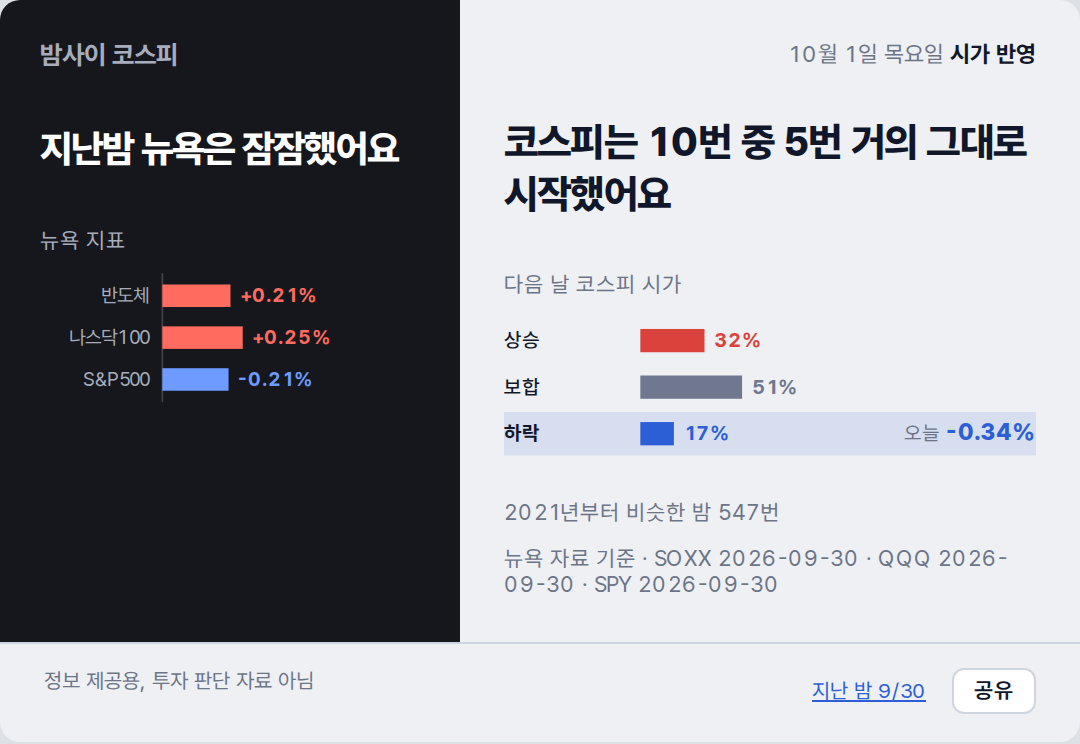
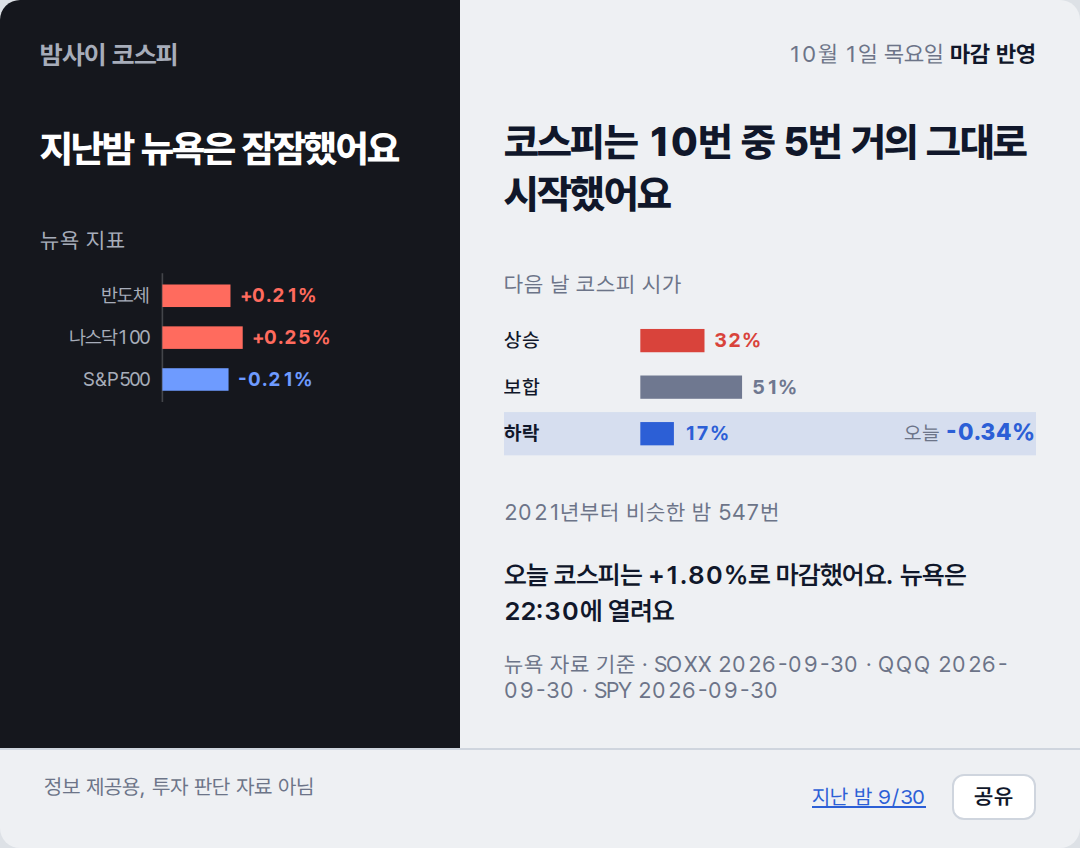
deploy: c0d07a214321b41f7cf333fef670b17ffe5b5852

diff --git a/2026-10-01/index.html b/2026-10-01/index.html
@@ -38,7 +38,7 @@ footer a{color:#2C5FD6}
 <rect x="76" y="61" width="41.1" height="14" fill="var(--down)"/>
 <text x="123.1" y="72" fill="var(--down)" font-weight="700">-0.21%</text>
 </svg></section>
-<section class="day"><p class="stamp">10월 1일 목요일 <b>시가 반영</b></p><p class="claim">코스피는 10번 중 5번 거의 그대로 시작했어요</p><p class="lab">다음 날 코스피 시가</p><svg viewBox="0 0 320 100" xmlns="http://www.w3.org/2000/svg" font-family="var(--sans)" font-size="12">
+<section class="day"><p class="stamp">10월 1일 목요일 <b>마감 반영</b></p><p class="claim">코스피는 10번 중 5번 거의 그대로 시작했어요</p><p class="lab">다음 날 코스피 시가</p><svg viewBox="0 0 320 100" xmlns="http://www.w3.org/2000/svg" font-family="var(--sans)" font-size="12">
 <text x="0" y="20" fill="var(--ink)" font-weight="500">상승</text>
 <rect x="82" y="9" width="38.6" height="14" fill="var(--up)"/>
 <text x="126.6" y="20" fill="var(--up)" font-weight="700">32%</text>
@@ -50,7 +50,7 @@ footer a{color:#2C5FD6}
 <rect x="82" y="65" width="20.2" height="14" fill="var(--down)"/>
 <text x="108.2" y="76" fill="var(--down)" font-weight="700">17%</text>
 <text x="320" y="76" text-anchor="end" fill="var(--ink)"><tspan fill="var(--muted)">오늘 </tspan><tspan font-weight="800" font-size="14" fill="var(--down)">-0.34%</tspan></text>
-</svg><p class="cap">2021년부터 비슷한 밤 547번</p><p class="cap">뉴욕 자료 기준 · SOXX 2026-09-30 · QQQ 2026-09-30 · SPY 2026-09-30</p></section>
+</svg><p class="cap">2021년부터 비슷한 밤 547번</p><p class="tail">오늘 코스피는 +1.80%로 마감했어요. 뉴욕은 22:30에 열려요</p><p class="cap">뉴욕 자료 기준 · SOXX 2026-09-30 · QQQ 2026-09-30 · SPY 2026-09-30</p></section>
 <footer><span>정보 제공용, 투자 판단 자료 아님</span><span style="white-space:nowrap"><a href="../2026-09-30/">지난 밤 9/30</a> <button class="share" type="button">공유</button></span></footer>
 <script>
 /* 공유: Web Share가 있으면 시스템 공유 시트, 없으면 링크 복사. 링크는 이 날짜 페이지(OG 카드 붙음) */

diff --git a/index.html b/index.html
@@ -38,7 +38,7 @@ footer a{color:#2C5FD6}
 <rect x="76" y="61" width="41.1" height="14" fill="var(--down)"/>
 <text x="123.1" y="72" fill="var(--down)" font-weight="700">-0.21%</text>
 </svg></section>
-<section class="day"><p class="stamp">10월 1일 목요일 <b>시가 반영</b></p><p class="claim">코스피는 10번 중 5번 거의 그대로 시작했어요</p><p class="lab">다음 날 코스피 시가</p><svg viewBox="0 0 320 100" xmlns="http://www.w3.org/2000/svg" font-family="var(--sans)" font-size="12">
+<section class="day"><p class="stamp">10월 1일 목요일 <b>마감 반영</b></p><p class="claim">코스피는 10번 중 5번 거의 그대로 시작했어요</p><p class="lab">다음 날 코스피 시가</p><svg viewBox="0 0 320 100" xmlns="http://www.w3.org/2000/svg" font-family="var(--sans)" font-size="12">
 <text x="0" y="20" fill="var(--ink)" font-weight="500">상승</text>
 <rect x="82" y="9" width="38.6" height="14" fill="var(--up)"/>
 <text x="126.6" y="20" fill="var(--up)" font-weight="700">32%</text>
@@ -50,7 +50,7 @@ footer a{color:#2C5FD6}
 <rect x="82" y="65" width="20.2" height="14" fill="var(--down)"/>
 <text x="108.2" y="76" fill="var(--down)" font-weight="700">17%</text>
 <text x="320" y="76" text-anchor="end" fill="var(--ink)"><tspan fill="var(--muted)">오늘 </tspan><tspan font-weight="800" font-size="14" fill="var(--down)">-0.34%</tspan></text>
-</svg><p class="cap">2021년부터 비슷한 밤 547번</p><p class="cap">뉴욕 자료 기준 · SOXX 2026-09-30 · QQQ 2026-09-30 · SPY 2026-09-30</p></section>
+</svg><p class="cap">2021년부터 비슷한 밤 547번</p><p class="tail">오늘 코스피는 +1.80%로 마감했어요. 뉴욕은 22:30에 열려요</p><p class="cap">뉴욕 자료 기준 · SOXX 2026-09-30 · QQQ 2026-09-30 · SPY 2026-09-30</p></section>
 <footer><span>정보 제공용, 투자 판단 자료 아님</span><span style="white-space:nowrap"><a href="./2026-09-30/">지난 밤 9/30</a> <button class="share" type="button">공유</button></span></footer>
 <script>
 /* 공유: Web Share가 있으면 시스템 공유 시트, 없으면 링크 복사. 링크는 이 날짜 페이지(OG 카드 붙음) */
